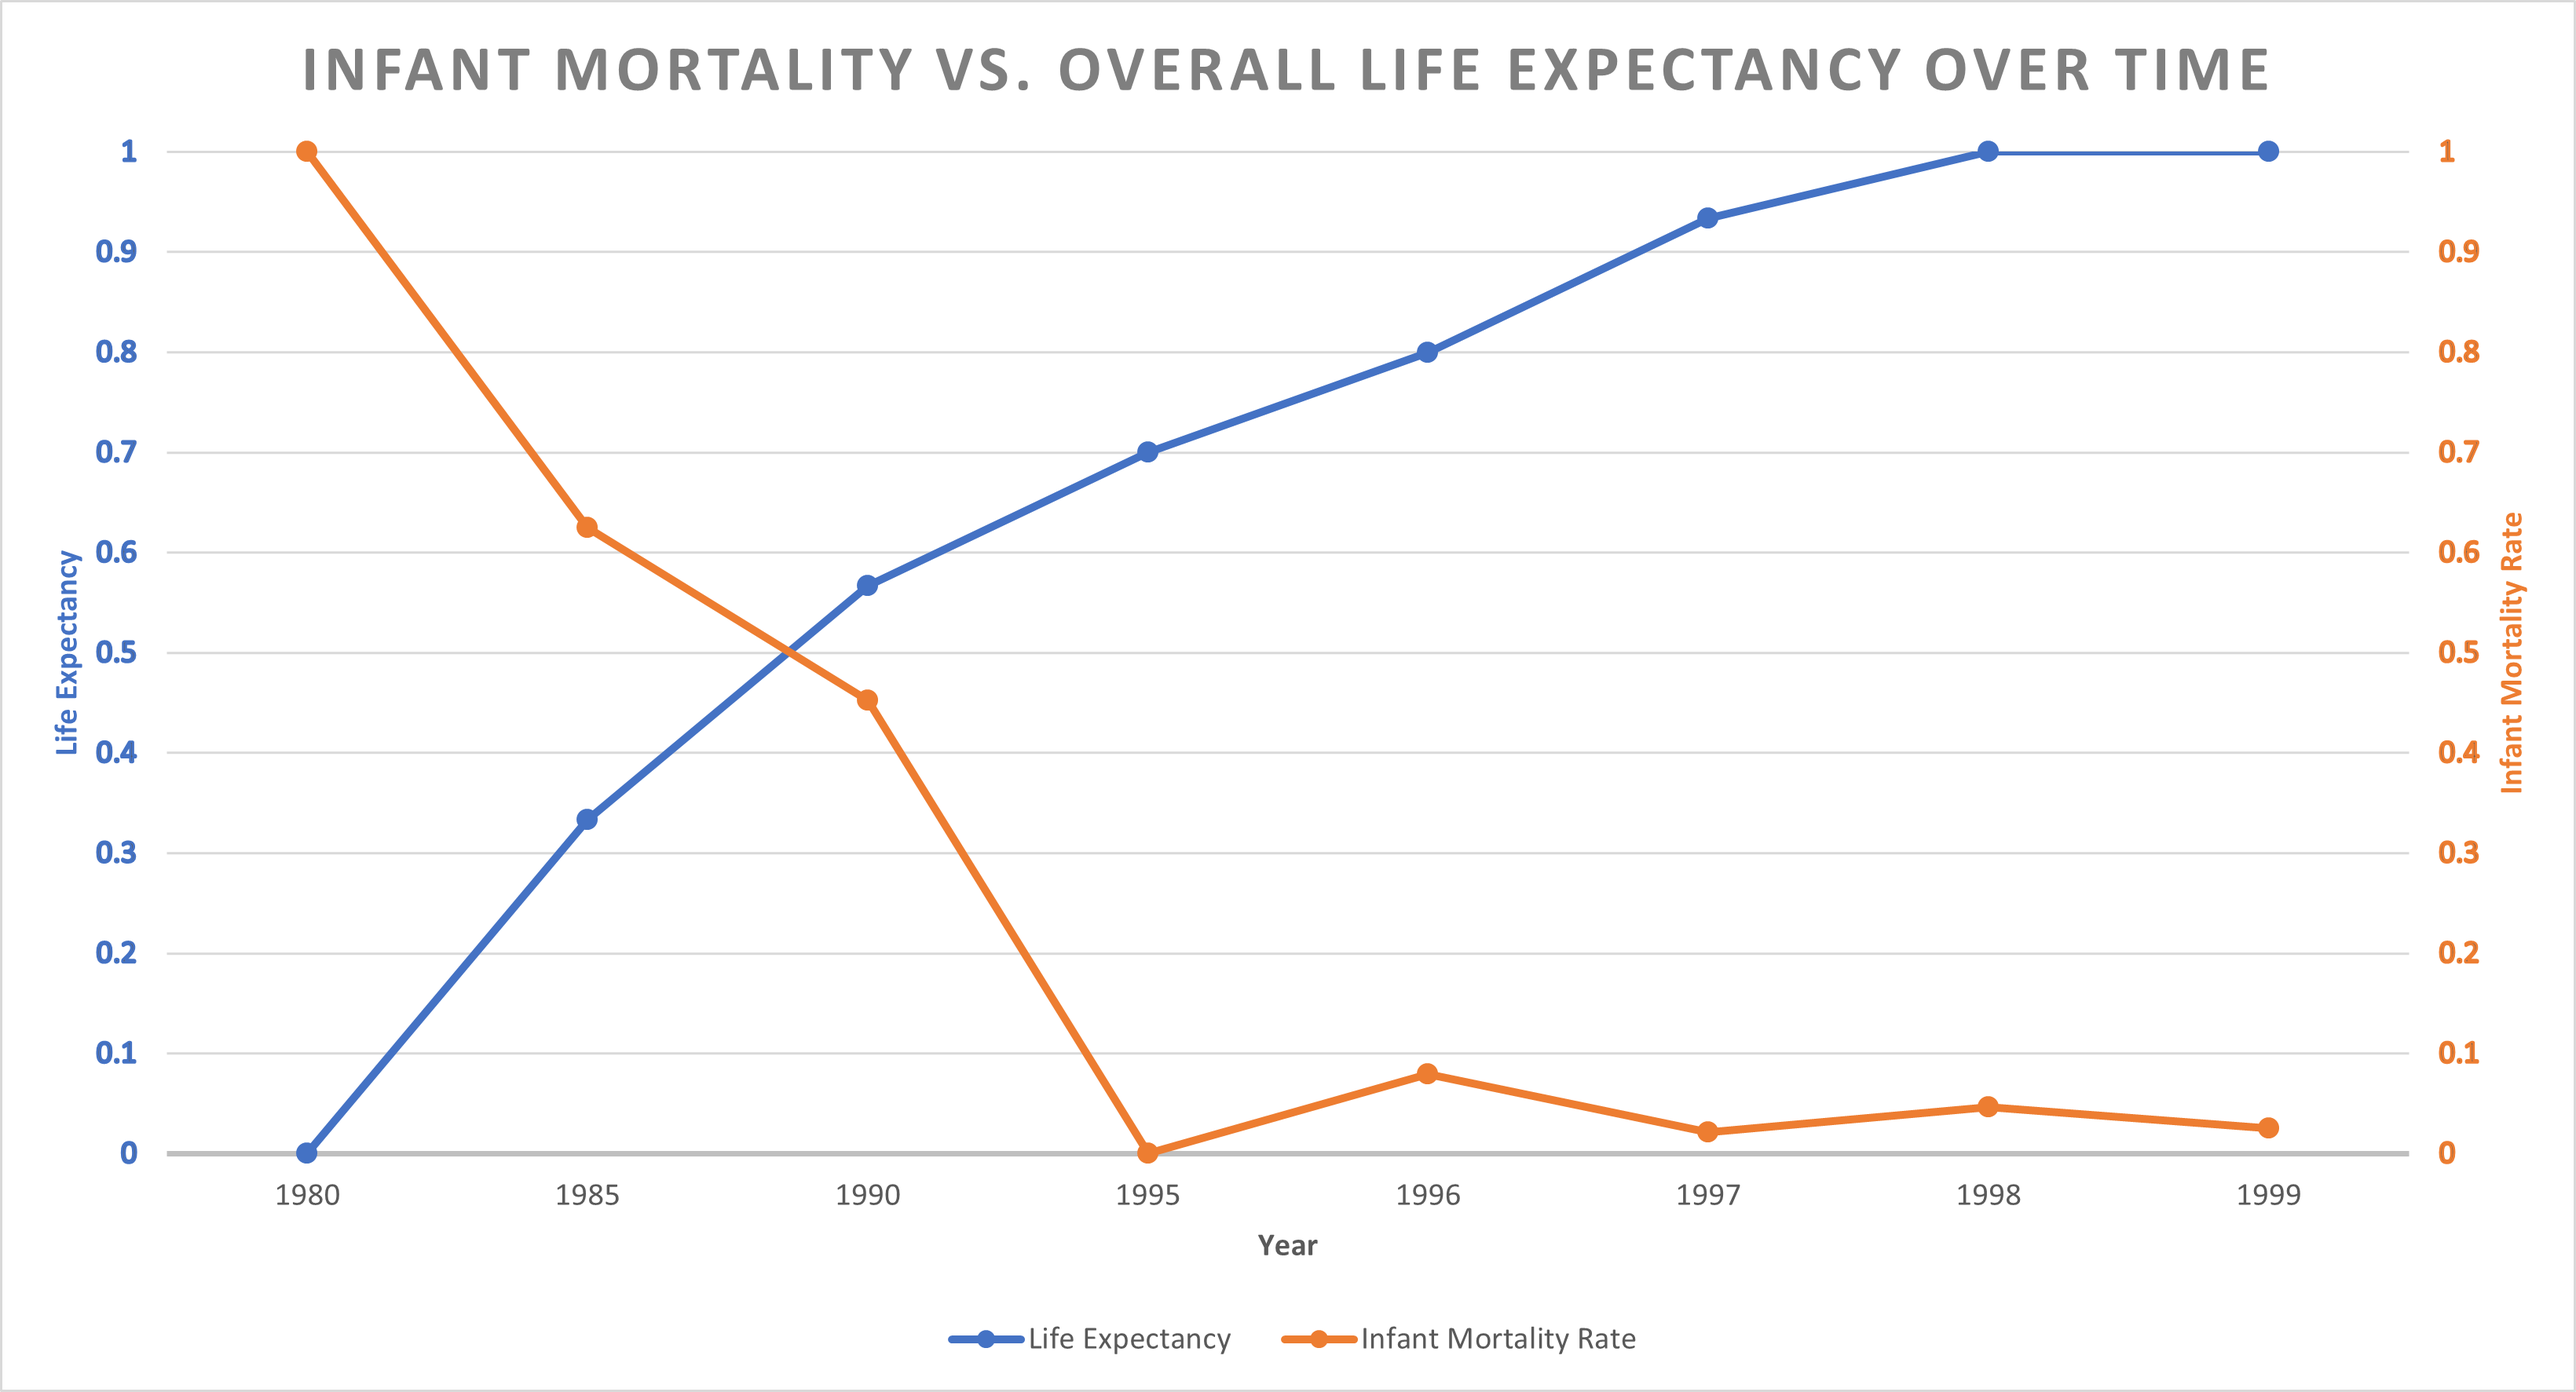
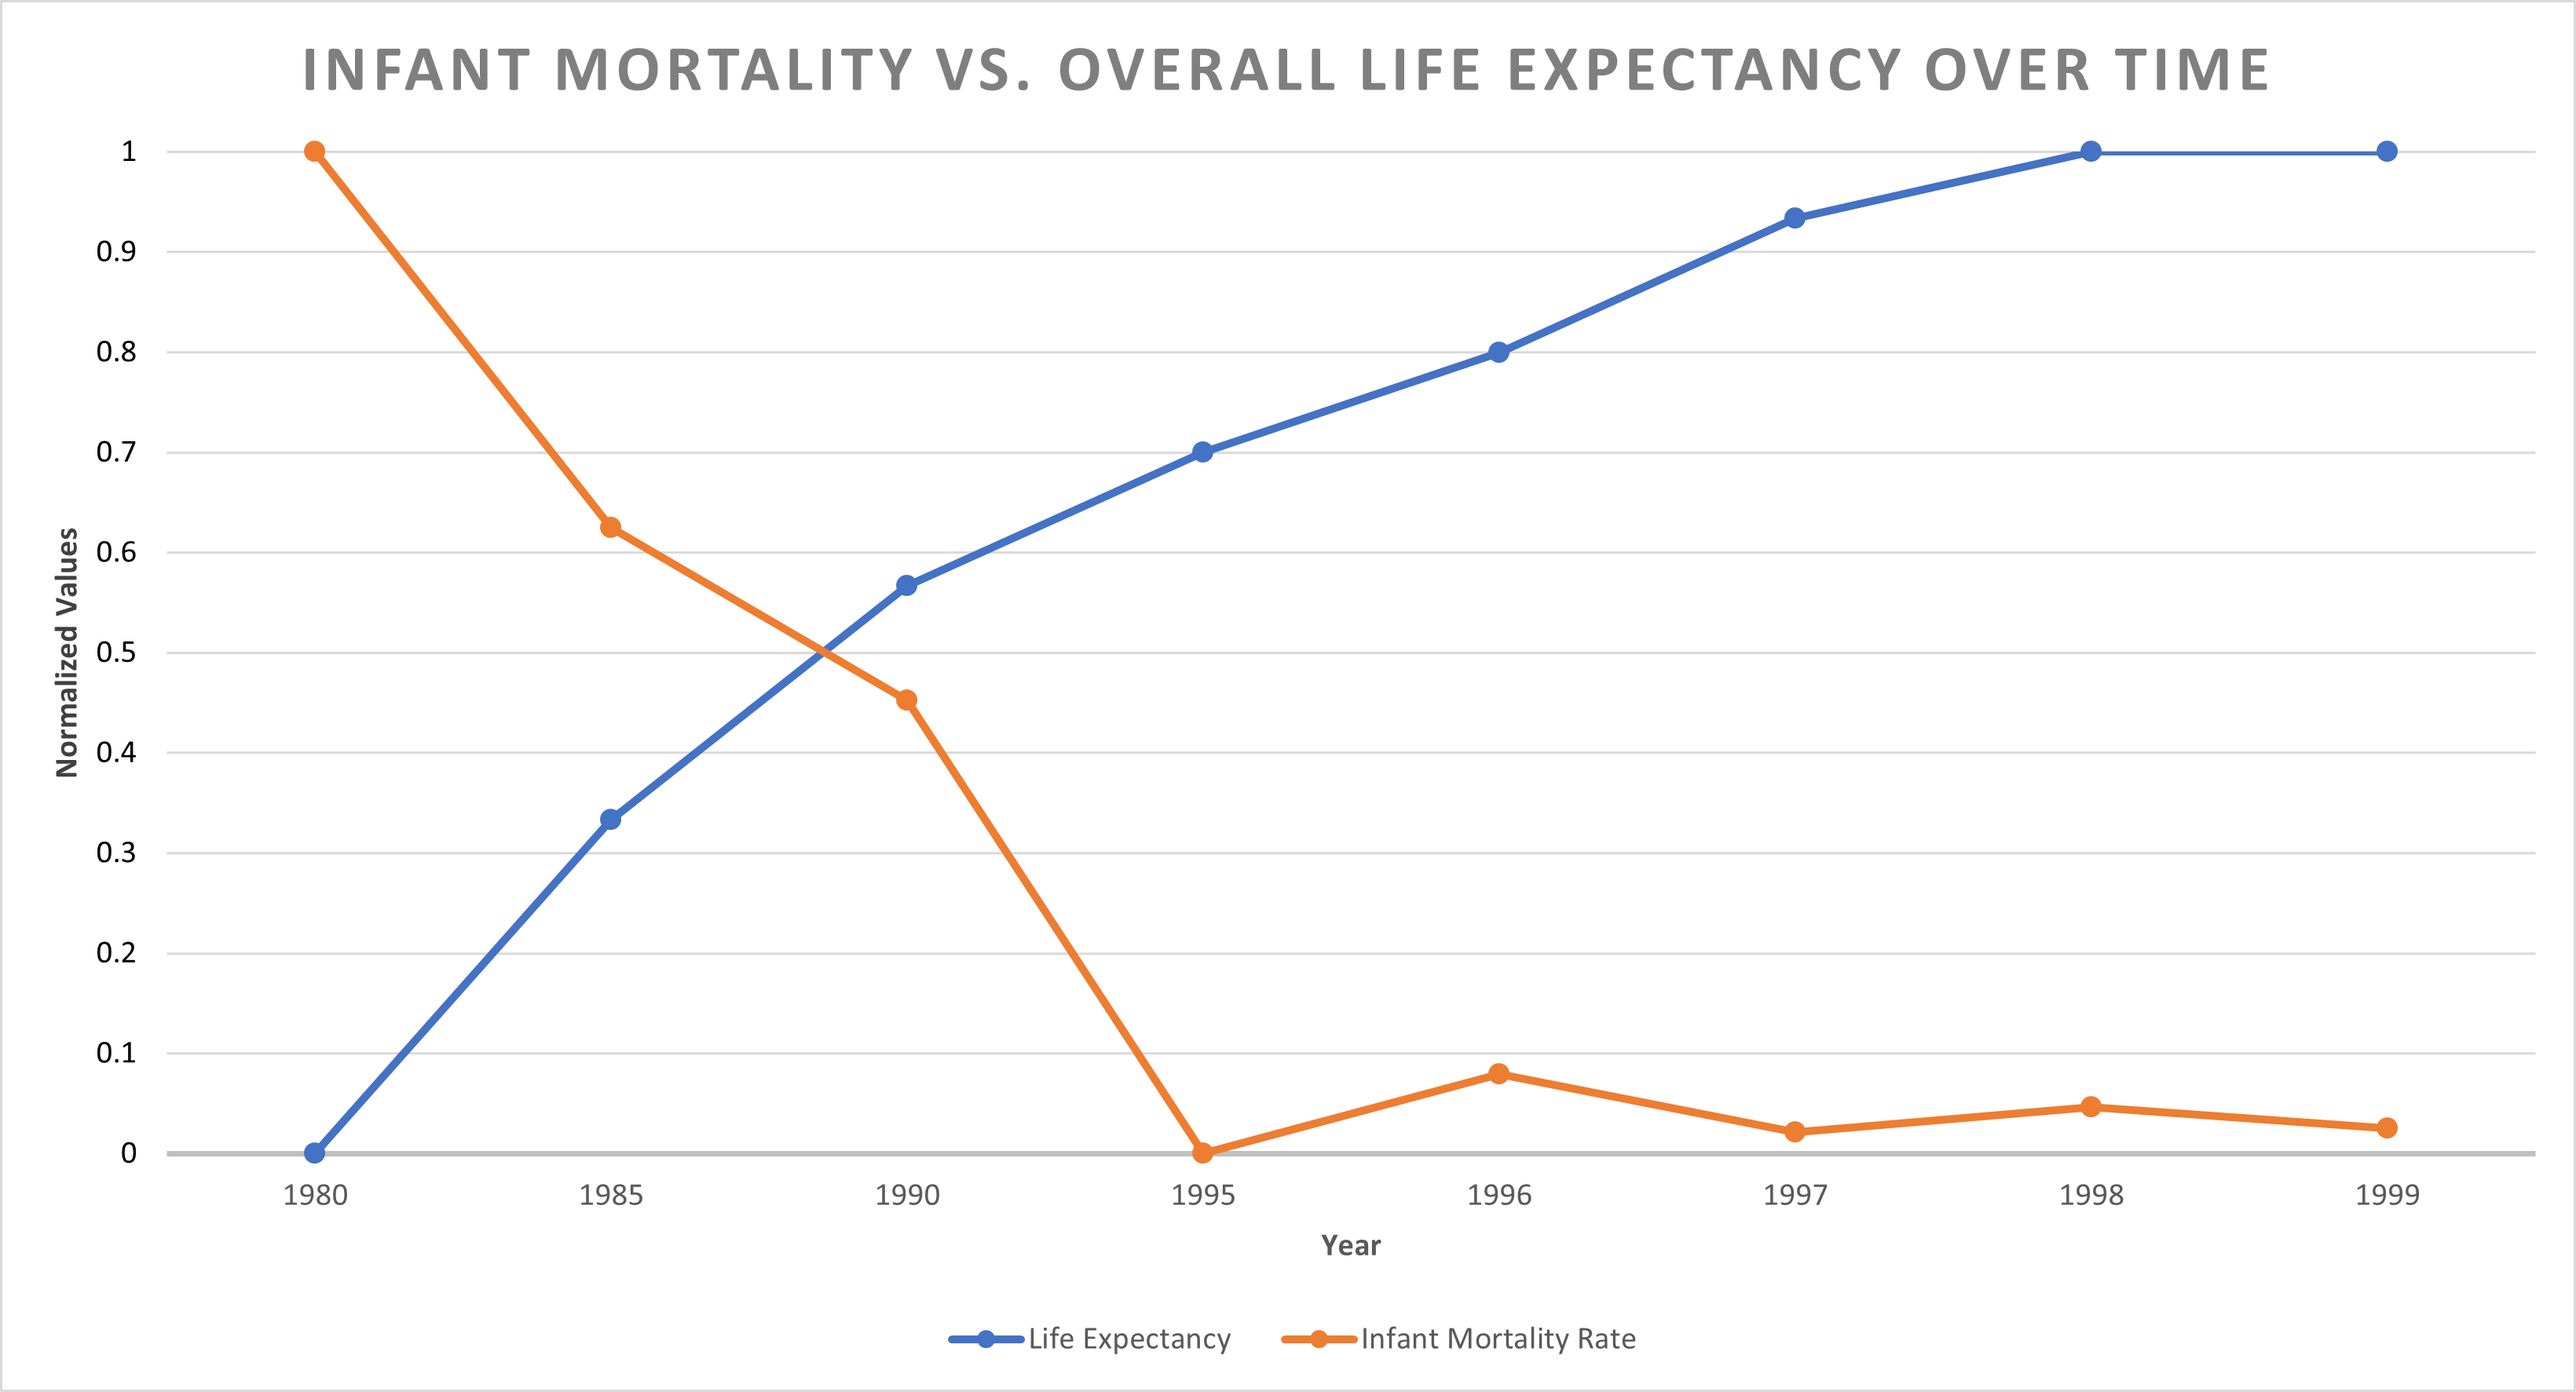
update

diff --git a/HW4/HW4-report.md b/HW4/HW4-report.md
@@ -273,79 +273,6 @@ The style of the chart is set using Seaborn, which creates a white grid backgrou
 
 Distinct categories, including "Total Male," "Total Female," "Total White," and "Total Black," are assigned specific colors for easy differentiation. The code creates custom legend elements that are associated with lines and markers, enhancing the chart's readability and interpretability. A loop is used to plot the infant mortality rates for each category, creating lines that connect data points for each year, with markers highlighting specific data points.
 
-### Extra Credit [2 Points]
-
-**Combine the data from Tables 102 and 107 to investigate how infant mortality might affect overall life expectancy.**
-
-Table 102 - Expectation of Life at Birth, and Projections
-
-Table 107 - Death Rates by Age, Sex, and Race
-
-![Dual Axis Line Chart Dataset 3 Question EC](dataset3_ec_python.png)
-
-##### Code
-
-```
-
-import pandas as pd
-import seaborn as sns
-import matplotlib.pyplot as plt
-from google.colab import drive
-
-drive.mount("/content/drive", force_remount=True)
-
-life_expectancy_data = pd.read_csv("/content/drive/MyDrive/CS_625_HW4/dataset3_q1.csv")
-mortality_data = pd.read_csv("/content/drive/MyDrive/CS_625_HW4/dataset3_q2.csv")
-
-merged_data = pd.merge(life_expectancy_data, mortality_data, on='Year')
-merged_data['Year'] = merged_data['Year'].astype(int).astype(str)
-
-sns.set(style="whitegrid")
-
-fig, ax1 = plt.subplots(figsize=(12, 6))
-
-def scale_data(data):
-    min_data = min(data)
-    max_data = max(data)
-    return [(x - min_data) / (max_data - min_data) for x in data]
-
-scaled_life_expectancy = scale_data(merged_data['Total_x'])
-scaled_mortality_rate = scale_data(merged_data['Total_y'])
-
-ax1.set_xlabel('Year')
-ax1.set_ylabel('Life Expectancy', color='tab:blue')
-ax1.plot(merged_data['Year'], scaled_life_expectancy, color='tab:blue', label='Life Expectancy')
-ax1.tick_params(axis='y', labelcolor='tab:blue')
-ax1.legend(loc='upper left', bbox_to_anchor=(0.5, 1.20), ncol=4)
-
-ax2 = ax1.twinx()
-
-ax2.set_ylabel('Infant Mortality Rate', color='tab:red')
-ax2.plot(merged_data['Year'], scaled_mortality_rate, color='tab:red', label='Infant Mortality Rate')
-ax2.tick_params(axis='y', labelcolor='tab:red')
-ax2.legend(loc='upper right', bbox_to_anchor=(0.5, 1.20), ncol=4)
-
-plt.title("Infant Mortality vs. Overall Life Expectancy")
-
-fig.tight_layout()
-plt.show()
-
-```
-
-**The First CSV File for this chart is, [dataset3_q1.csv](dataset3_q1.csv)** 
-
-**The Second CSV File for this chart is, [dataset3_q2.csv](dataset3_q2.csv)** 
-
-**The CSV File for the normalized data is, [dataset3_normalized_data.csv](dataset3_normalized_data.csv)**
-
-##### Explanation
-
-Two datasets are read from Google Drive, namely, 'life_expectancy_data' and 'mortality_data'. The datasets are merged into a single DataFrame, 'merged_data', using the 'Year' column as the common key. The 'Year' column in the 'merged_data' DataFrame is converted into string data type. This conversion ensures that 'Year' is treated as a string for consistent data type usage and appropriate labeling in plots.
-
-A custom scaling function, 'scale_data', is defined. This function scales data to a common range, ensuring that both life expectancy and infant mortality data are on an equal footing for comparison. The data for life expectancy and infant mortality is normalized using the 'scale_data' function. This normalization process helps to standardize the data for fair and meaningful comparison.
-
-The first subplot ('ax1') is used to plot the normalized life expectancy data and the second subplot ('ax2') is created using 'ax1.twinx()'. This function creates a second Y-axis on the right side of the chart while sharing the same X-axis. The normalized infant mortality rate data is plotted in the second subplot ('ax2').
-
 ## [5 points] Complete the full assignment with one of the other datasets.
 
 ## Dataset 2
